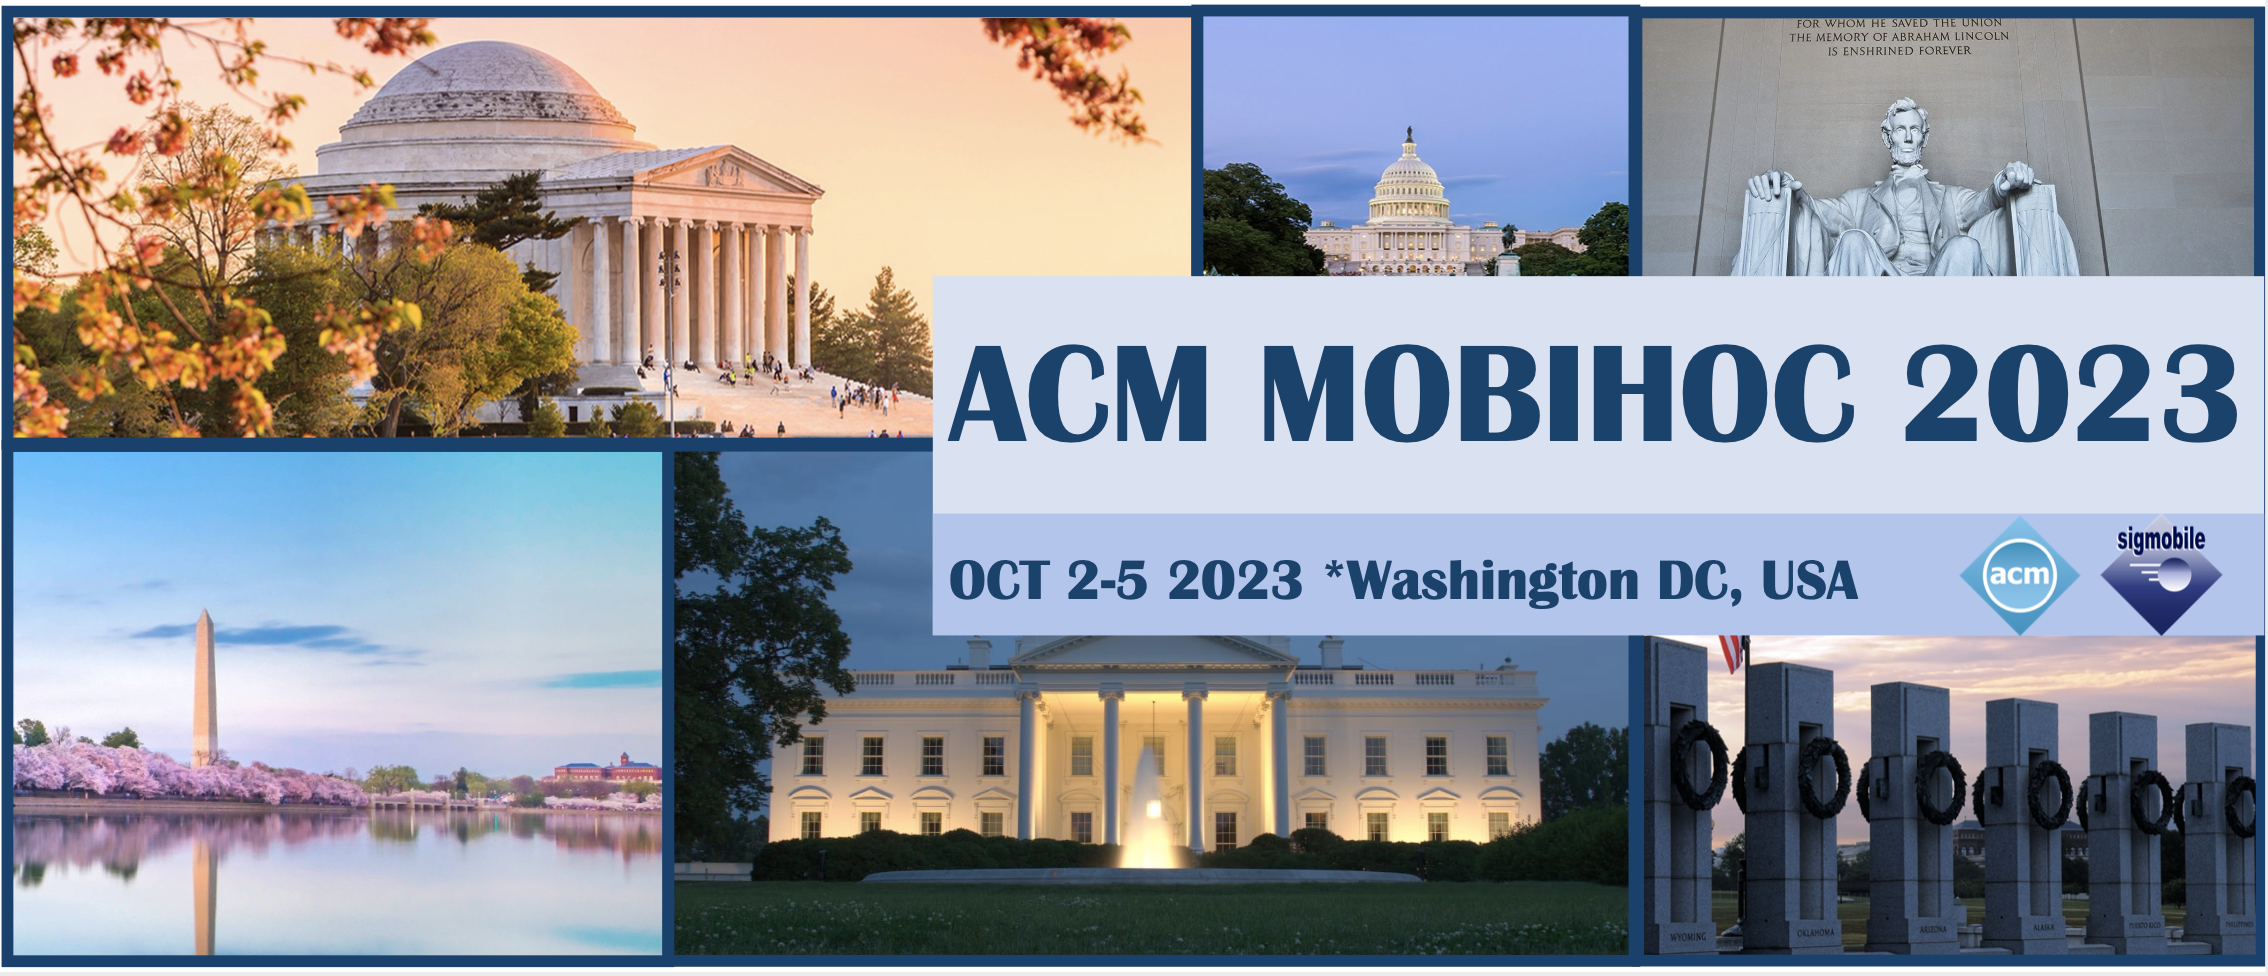
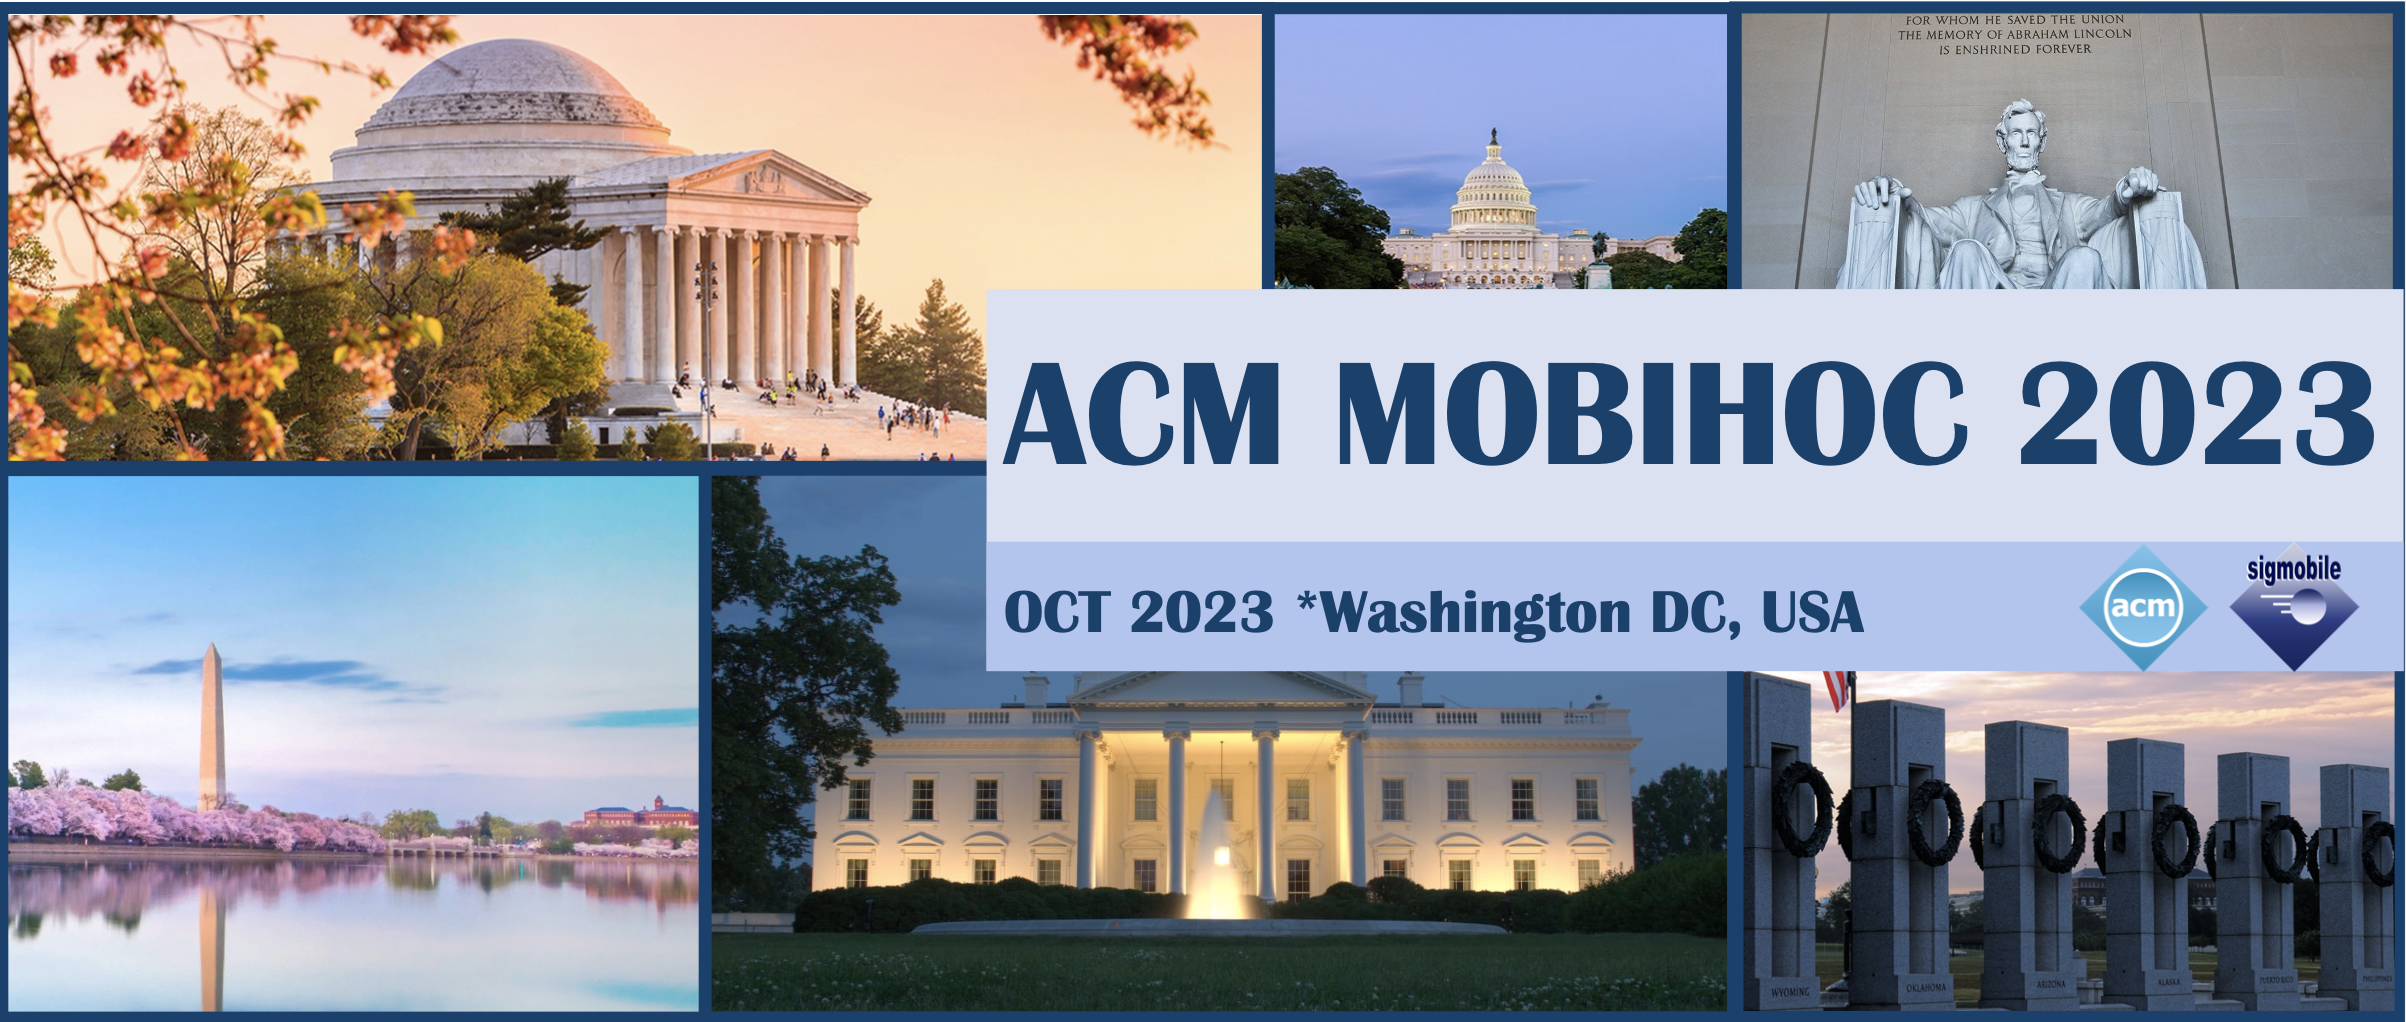
update figure dates and submission

diff --git a/submission.md b/submission.md
@@ -7,7 +7,7 @@ group: Author Information
 
 # {{ page.title }}
 
-Papers should be submitted via [the HotCRP submissing website ( https://mobihoc19.hotcrp.com)](https://mobihoc19.hotcrp.com).
+Papers should be submitted via [the HotCRP submissing website ( https://mobihoc23.hotcrp.com)](https://mobihoc23.hotcrp.com).
 
 Papers should not exceed 10 pages (US letter size) double column including figures, tables, and references in standard ACM format.
 Papers must be submitted electronically in printable PDF form.
@@ -22,7 +22,7 @@ The identity of referees will not be revealed to authors, but author can keep th
 *Accepted papers will appear in the conference proceedings published by the ACM. Warning: It is ACM policy not to allow double submissions, where the same paper is submitted to more than one conference/journal concurrently. Any double submissions detected will be immediately rejected from all conferences/journals involved.*
 {: class="bs-callout bs-callout-danger" }
 
- 
+
 #### Rebuttal Submission Policy
 
 The authors can write a rebuttal after the first-round review process is complete, and upload the rebuttal to the hotcrp submission site. During the rebuttal phase, you will have access to the current state of your reviews and have the opportunity to submit a response of **<font color= "Red">ONE PAGE</font>**
